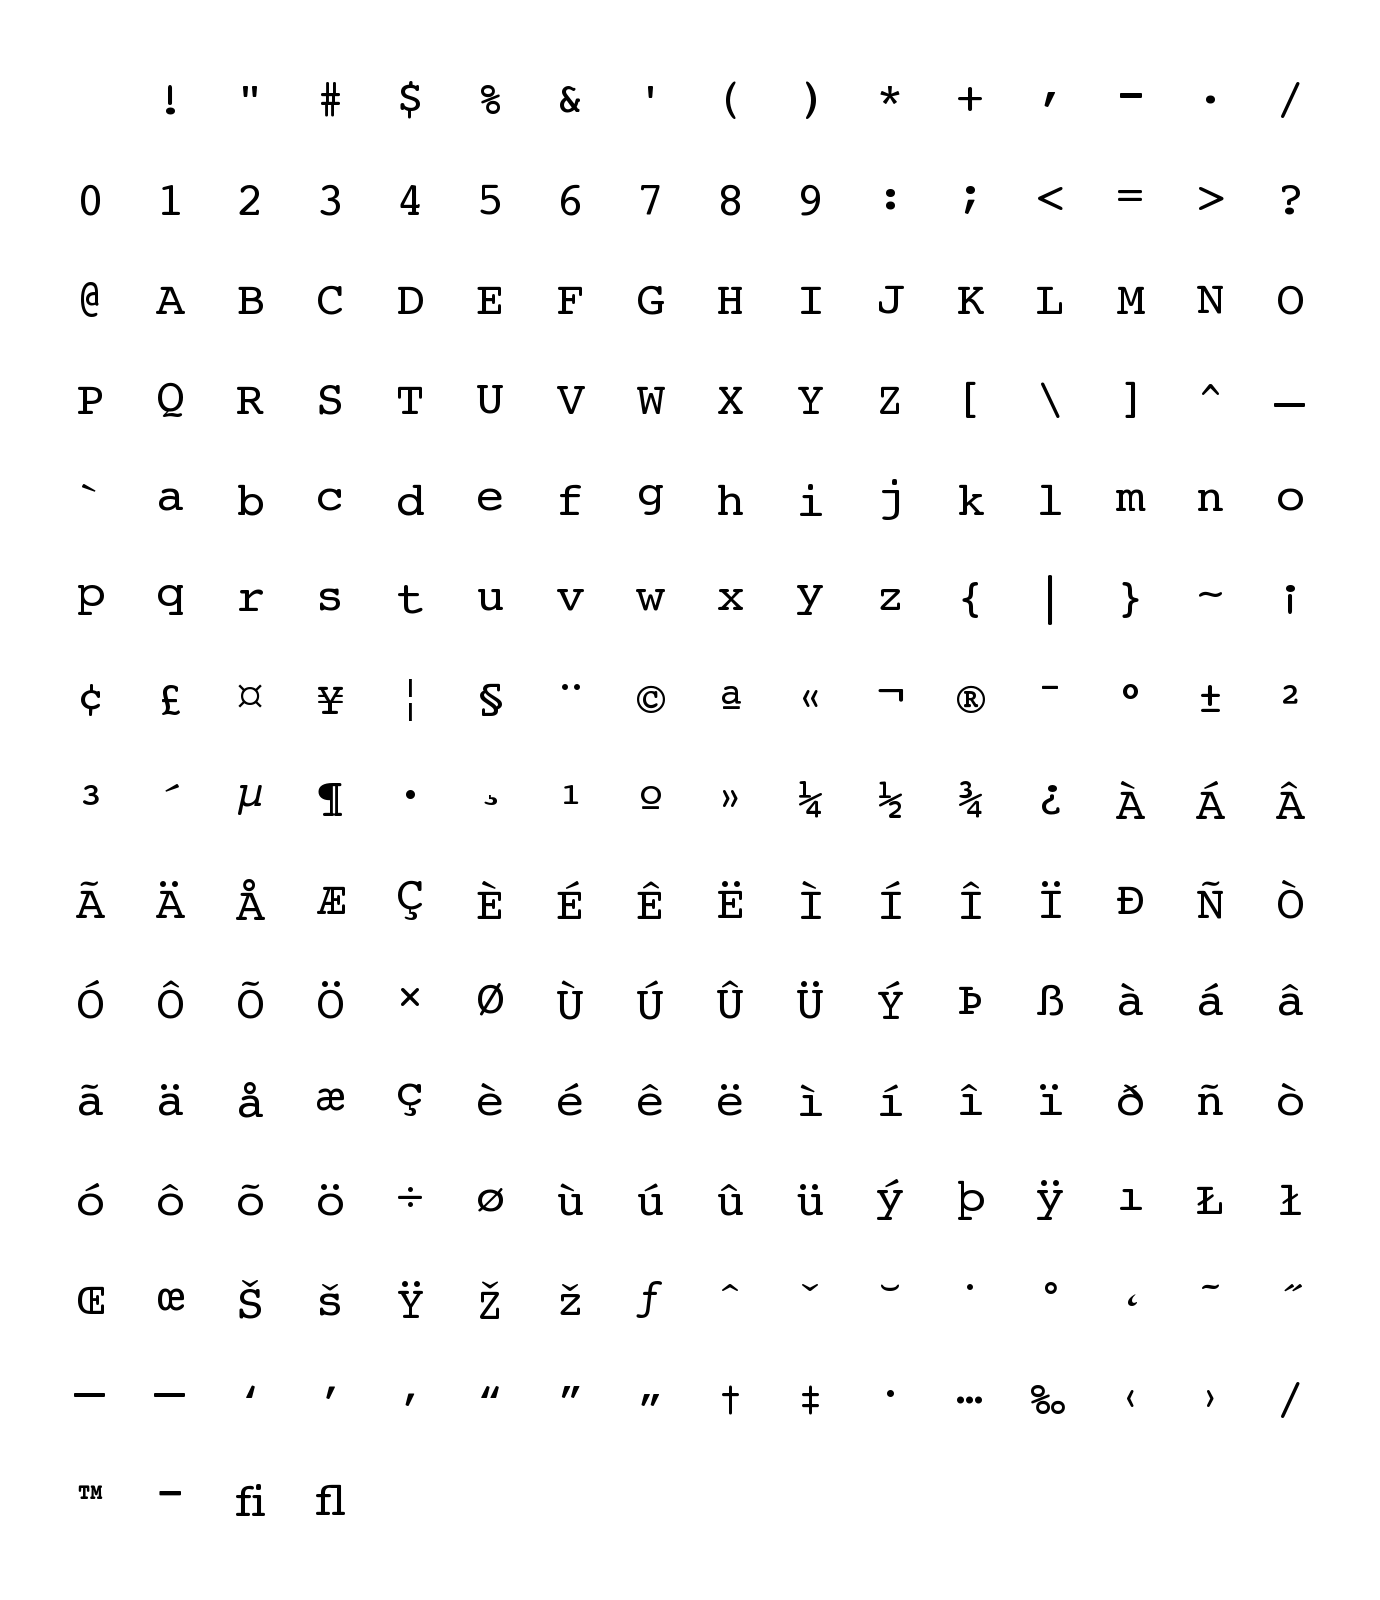
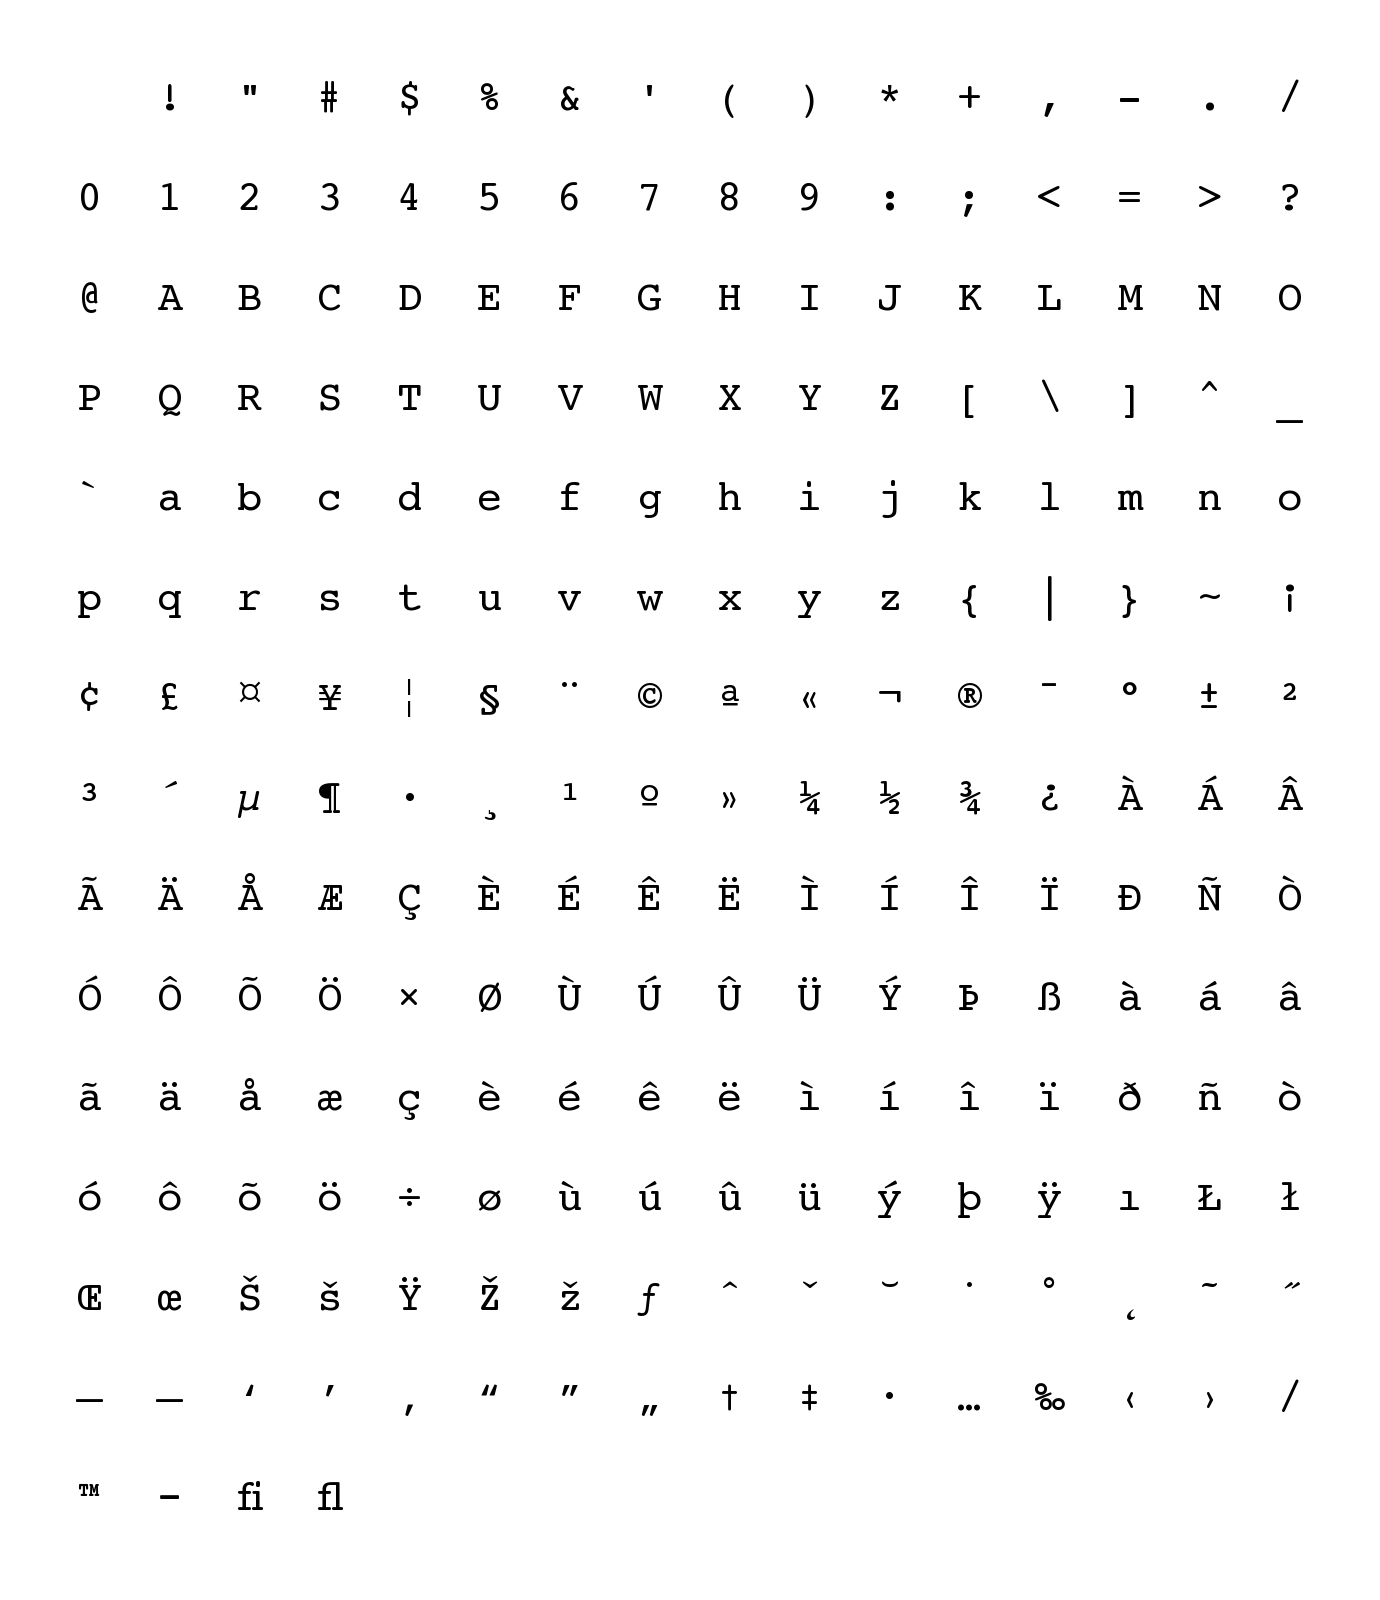
fix showcase baseline

diff --git a/gen-showcase.py b/gen-showcase.py
@@ -1,0 +1,98 @@
+# /// script
+# requires-python = ">=3.9"
+# dependencies = [
+#     "Pillow",
+#     "fonttools",
+# ]
+# ///
+
+import os
+from PIL import Image, ImageDraw, ImageFont
+from fontTools.ttLib import TTFont
+
+"""
+Courier 10 Pitch BT Showcase Generator
+--------------------------------------
+You can adjust the parameters in the 'create_showcase' function to 
+fine-tune the layout and spacing.
+
+Run this script using:
+    uv run gen-showcase.py
+"""
+
+def get_font_characters(font_path):
+    """Extracts available Unicode characters from the font file."""
+    ttfont = TTFont(font_path)
+    chars = []
+    for table in ttfont['cmap'].tables:
+        if table.isUnicode():
+            chars.extend(table.cmap.keys())
+    return sorted(list(set(chars)))
+
+def create_showcase(font_path, output_path):
+    print(f"Generating showcase for {font_path}...")
+    chars = get_font_characters(font_path)
+    
+    # Exclude control characters (0-31 and 127-159)
+    display_chars = [c for c in chars if not (c < 32 or (127 <= c <= 159))]
+    
+    # --- ADJUST THESE PARAMETERS ---
+    cols = 16          # Characters per row
+    font_size = 42     # Font size in pixels
+    cell_width = 80    # Width of each character cell
+    cell_height = 100  # Height of each character cell
+    margin = 50        # Padding around the entire grid
+    # -------------------------------
+    
+    rows = (len(display_chars) + cols - 1) // cols
+    width = cols * cell_width + margin * 2
+    height = rows * cell_height + margin * 2
+    
+    # Create white background image
+    img = Image.new('RGB', (width, height), 'white')
+    draw = ImageDraw.Draw(img)
+    
+    try:
+        font = ImageFont.truetype(font_path, font_size)
+    except Exception as e:
+        print(f"Error loading font {font_path}: {e}")
+        return
+
+    for i, codepoint in enumerate(display_chars):
+        char = chr(codepoint)
+        
+        row = i // cols
+        col = i % cols
+        
+        # Calculate the center of the cell for horizontal, and a fixed baseline for vertical
+        cell_center_x = margin + col * cell_width + cell_width / 2
+        cell_center_y = margin + row * cell_height + cell_height / 2
+        
+        # 'ms' anchor:
+        # m = horizontal middle
+        # s = baseline (standard alignment)
+        # We shift cell_center_y slightly to make the baseline look vertically centered in the cell
+        draw.text((cell_center_x, cell_center_y + font_size / 4), char, font=font, fill='black', anchor='ms')
+
+    img.save(output_path)
+    print(f"Successfully saved to {output_path}")
+
+def main():
+    # Mapping of source TTF files to output showcase images
+    fonts = [
+        ("dist/c0419bt_.ttf", "showcase/c0419bt_.png"),
+        ("dist/c0582bt_.ttf", "showcase/c0582bt_.png"),
+        ("dist/c0583bt_.ttf", "showcase/c0583bt_.png"),
+        ("dist/c0611bt_.ttf", "showcase/c0611bt_.png"),
+    ]
+    
+    os.makedirs("showcase", exist_ok=True)
+    
+    for font_path, out_path in fonts:
+        if os.path.exists(font_path):
+            create_showcase(font_path, out_path)
+        else:
+            print(f"Warning: Font file not found: {font_path}. Please run convert_ttf.py first.")
+
+if __name__ == "__main__":
+    main()

diff --git a/README.md b/README.md
@@ -18,7 +18,7 @@ The original source files are located in the [`Type1/`](./Type1/) directory.
 
 | Roman | Italic | Bold | Bold Italic |
 | :---: | :---: | :---: | :---: |
-| <img src="./showcase/c0419bt_.png" width="200"> | <img src="./showcase/c0582bt_.png" width="200"> | <img src="./showcase/c0583bt_.png" width="200"> | <img src="./showcase/c0611bt_.png" width="200"> |
+| ![Roman](./showcase/c0419bt_.png) | ![Italic](./showcase/c0582bt_.png) | ![Bold](./showcase/c0583bt_.png) | ![Bold Italic](./showcase/c0611bt_.png) |
 
 ### Prerequisites
 
